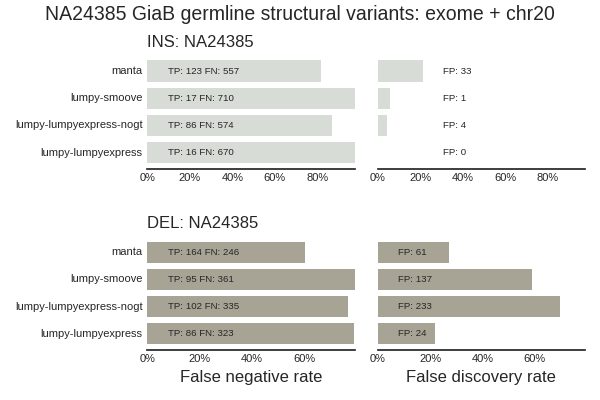
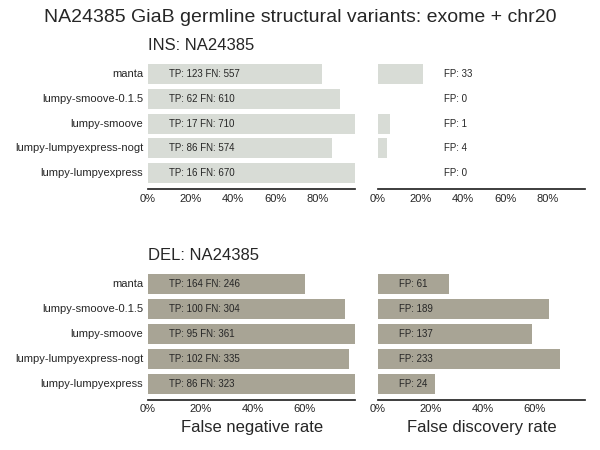
NA24385 SV: smoove 1.0.5 validation
Incorporate latest smoove and svtyper releases: brentp/smoove#16

diff --git a/NA24385_sv/README.md b/NA24385_sv/README.md
@@ -88,7 +88,8 @@ merge](https://github.com/fritzsedlazeck/SURVIVOR/wiki/Methods-and-Parameter#4-m
 combined the truth and evaluation callsets using flexible breakend comparisons.
 The comparisons include lumpyexpress with and without strict genotyping: `nogt`
 allows non heterozygous or homozygous variant calls in the output as well to
-demonstrate possible sensitivity of calls:
+demonstrate possible sensitivity of calls. This includes an evaluation of smoove
+1.0.5, with [smoove sensitivity improvements](https://github.com/brentp/smoove/issues/16):
 
 ![smoove](smoove/grading-summary-NA24385.png)
 
@@ -99,11 +100,10 @@ lumpyexpress versus 1141 with smoove; 425 translocations with no genotype
 lumpyexpress versus 1 with smoove. While we don't have validations for these
 events, this is a substantial reduction in likely extra noisy calls.
 
-The smoove implementation has comparable sensitivity and specificity to the
-custom lumpyexpress implementation using genotyping. However both are less
-sensitive than manta or lumpy calling that ignores genotyping. We'll continue to
-tune to improve outputs for this dataset and additional comparison data for
-orthogonal validations.
+Updated v1.0.5 of smoove has improved sensitivity compared to our custom
+lumpyexpress implementation in bcbio, especially on indels. We'll plan to
+continue to improve sensitivity in comparison with manta and incorporate
+additional validation benchmarks.
 
 Validation resources:
 
